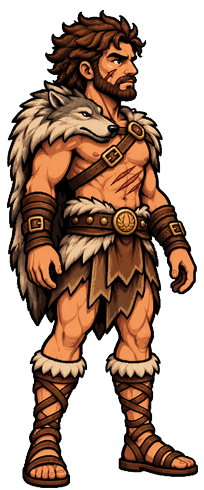
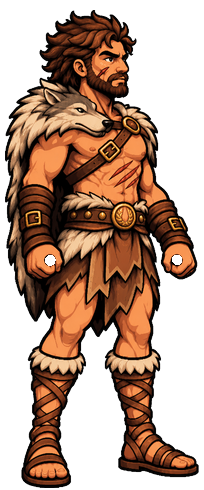
Adversaires aux poings fermés : les armes passent dans leur poing dessiné
- 14 nouveaux sprites d'adversaires détourés (faux damier retiré), trous des poings rendus transparents
- Positions des poings ajoutées à FISTS, RIG_ENEMY passe en mode poing fermé
- ASSET_V passé à v=5

Claude-Session: https://claude.ai/code/session_01KAPrrVq5fSLyxcSHdi6H6B

diff --git a/index.html b/index.html
@@ -721,7 +721,7 @@ function drawGlad(c, x, y, dir, L, st={}){
 /* ============ SPRITES DES POTES ============ */
 // version des images : à augmenter quand une image est remplacée sous le même nom,
 // pour que les navigateurs ne ressortent pas l'ancienne de leur cache
-const ASSET_V = '?v=4';
+const ASSET_V = '?v=5';
 const SPR = {};
 const SPR_AX = 100, SPR_AY = 488, SPR_H = 478;   // ancre = entre les pieds
 function loadSprites(cb){
@@ -955,7 +955,22 @@ const RIG_PERSO = {
 const FISTS = {
   darkkus:{f:[171,287], b:[51,289]}, fredhus:{f:[175,285], b:[50,287]}, sweevus:{f:[174,285], b:[47,285]},
   chelmacus:{f:[172,288], b:[52,291]}, dridricus:{f:[173,283], b:[37,283]}, kubenicus:{f:[171,287], b:[50,288]},
-  maximusrr:{f:[167,255], b:[43,257]}, beelgraalus:{f:[173,285], b:[48,289]}
+  maximusrr:{f:[167,255], b:[43,257]}, beelgraalus:{f:[173,285], b:[48,289]},
+  // adversaires
+  'e:bestiaire':{f:[177,259], b:[50,260]},
+  'e:retiaire':{f:[178,272], b:[38,274]},
+  'e:pirate':{f:[177,271], b:[34,271]},
+  'e:hoplomaque':{f:[168,291], b:[39,292]},
+  'e:thrace-veteran':{f:[173,289], b:[36,290]},
+  'e:samnite':{f:[169,285], b:[38,287]},
+  'e:legionnaire':{f:[181,281], b:[32,278]},
+  'e:dimachere':{f:[176,259], b:[36,258]},
+  'e:esclave-thrace':{f:[174,286], b:[32,288]},
+  'e:gaulois':{f:[180,277], b:[45,277]},
+  'e:mirmillon':{f:[179,270], b:[38,270]},
+  'e:provocator':{f:[184,271], b:[32,274]},
+  'e:secutor':{f:[179,271], b:[34,271]},
+  'e:essedaire':{f:[179,292], b:[37,293]}
 };
 const FIST_B0 = [-50,-200];   // main arrière de référence pour WEAR (boucliers, filet, chope)
 // adversaires : proportions réalistes (tête plus petite, bras plus longs, bassin plus haut)
@@ -966,7 +981,8 @@ const RIG_ENEMY = {
          legB:[[0,300],[102,300],[102,490],[0,490]],
          legF:[[102,300],[204,300],[204,490],[102,490]] },
   piv:{head:[0,-366], armB:[-60,-350], armF:[62,-348], legB:[-25,-183], legF:[25,-183]},
-  hand:[80,-203], probe:[100,220], fill:[[58,128],[74,128],[74,300],[58,300]], skin:[150,170,40,90]
+  hand:[80,-203], probe:[100,220], fill:[[58,128],[74,128],[74,300],[58,300]], skin:[150,170,40,90],
+  fist:true
 };
 function buildParts(img, rig=RIG_PERSO){
   const PART_POLY = rig.poly;

diff --git a/CLAUDE.md b/CLAUDE.md
@@ -113,7 +113,7 @@ Tous les sprites humains font **204×490 px**, personnage de face, pieds en bas.
 
 Deux découpes :
 - **`RIG_PERSO`** (les 8 potes, proportions réalistes comme les adversaires) : tête 0–122, bras 122–315, jambes 338–490 (sous l'ourlet de la tunique, pour qu'elle ne se coupe pas quand les jambes bougent).
-- **Poings des potes** (`RIG_PERSO.fist`) : les 8 sprites ont les poings fermés et vides, avec un trou transparent. `FISTS[id]` donne le centre de chaque trou en pixels du sprite (`f` main de l'arme, `b` main du bouclier). L'arme est dessinée à `FISTS.f`, **avant** le bras avant, pour que le manche passe derrière les doigts ; pas de poing ajouté (`getFist` ne sert plus qu'aux adversaires, mains ouvertes). Les cestes sont posés par-dessus le poing. Boucliers, filet et chope sont décalés de `FISTS.b − FIST_B0` ; filet et chope sont dessinés avant le bras arrière. Nouveau sprite de pote → mesurer ses deux trous et compléter `FISTS`.
+- **Poings des potes** (`RIG_PERSO.fist`) : les 8 sprites ont les poings fermés et vides, avec un trou transparent. `FISTS[id]` donne le centre de chaque trou en pixels du sprite (`f` main de l'arme, `b` main du bouclier). L'arme est dessinée à `FISTS.f`, **avant** le bras avant, pour que le manche passe derrière les doigts ; pas de poing ajouté (`getFist` ne sert plus que de secours pour un sprite absent de `FISTS`). Les cestes sont posés par-dessus le poing. Boucliers, filet et chope sont décalés de `FISTS.b − FIST_B0` ; filet et chope sont dessinés avant le bras arrière. Les adversaires ont aussi des poings fermés (`RIG_ENEMY.fist`, entrées `'e:<fichier>'` dans `FISTS`). Nouveau sprite → mesurer ses deux trous et compléter `FISTS`.
 - **`RIG_ENEMY`** (adversaires) : tête 0–124, bras 124–312, jambes 300–490 (pagne court).
 - `PART_POLY` / `PIV` sont l'ancienne découpe « grosse tête », gardée seulement comme valeur par défaut de `buildParts`.
 
